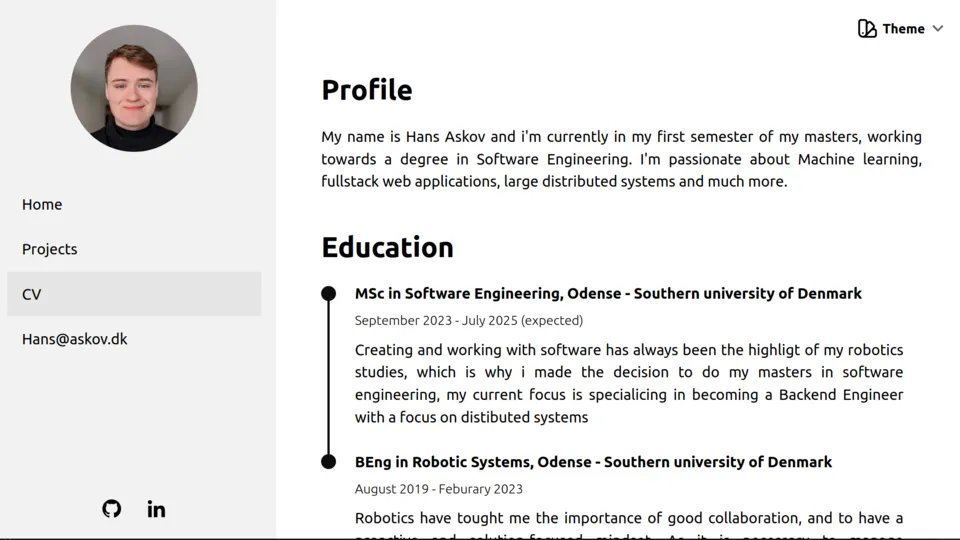
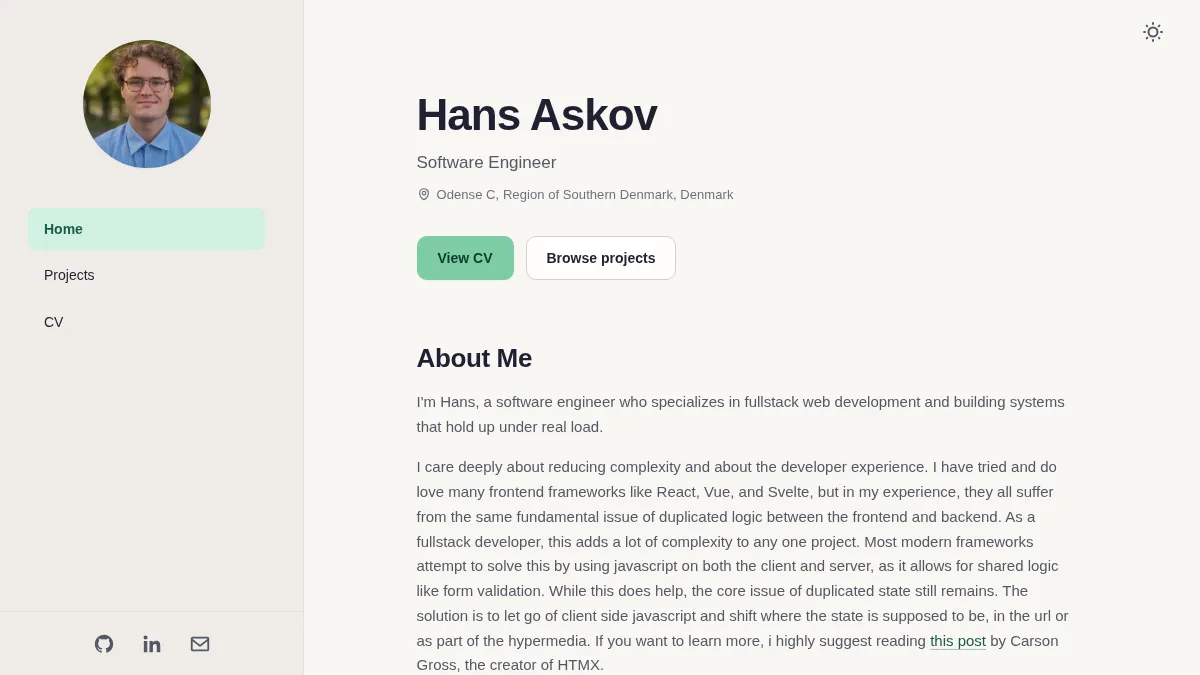
Automatically update personal-site.webp

diff --git a/playwright/media.spec.ts b/playwright/media.spec.ts
@@ -1,0 +1,15 @@
+import { test } from "@playwright/test";
+import path from "node:path";
+import sharp from "sharp";
+
+test.use({ viewport: { width: 1200, height: 675 } });
+
+test("captures the homepage preview image", async ({ page }) => {
+  await page.goto("/");
+
+  const screenshot = await page.screenshot({ type: "png" });
+
+  await sharp(screenshot)
+    .webp({ quality: 80 })
+    .toFile(path.resolve("src", "media", "personal-site.webp"));
+});
